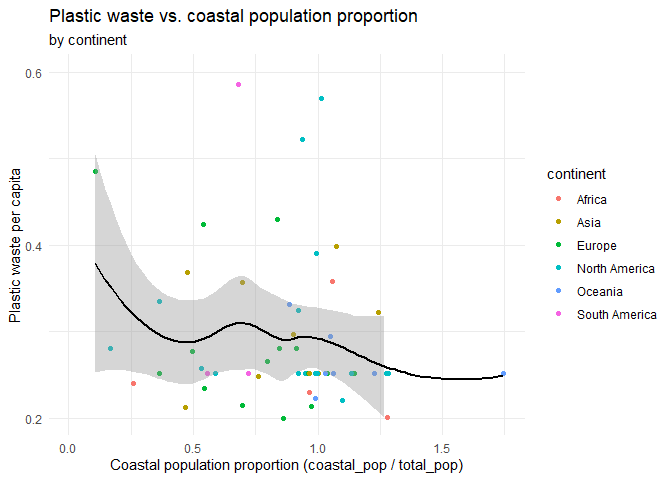
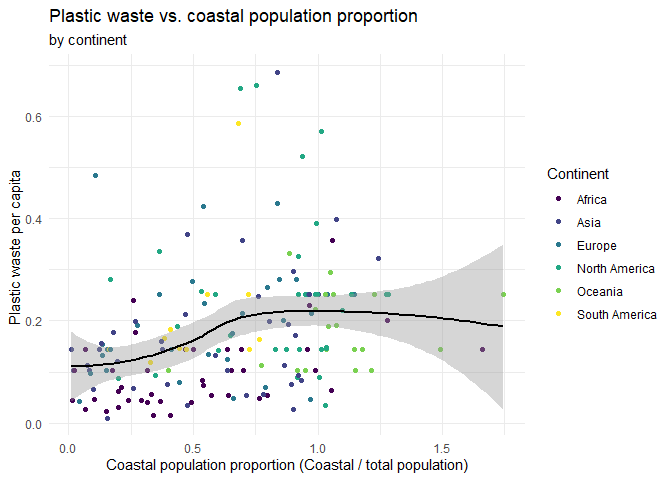
Lab 2 done!

diff --git a/lab-02.md b/lab-02.md
@@ -176,36 +176,35 @@ Remove this text, and add your answer for Exercise 5 here.
 ``` r
 # insert code here
 
-ggplot(plastic_waste, 
-       aes(x = coastal_pop / total_pop,
-           y = plastic_waste_per_cap,
-           color = continent)) +
+plastic_waste %>%
+  mutate(coastal_pop_prop = coastal_pop / total_pop) %>%
+  filter(plastic_waste_per_cap < 3) %>%
+  ggplot(aes(
+    x = coastal_pop_prop,
+    y = plastic_waste_per_cap,
+    color = continent
+  )) +
   geom_point() +
-  geom_smooth(aes(group = 1), 
-              method = "loess", 
-              color = "black", 
-              se = TRUE) +
+  geom_smooth(color = "black") +
+  scale_color_viridis_d() +
   labs(
+    x = "Coastal population proportion (Coastal / total population)",
+    y = "Plastic waste per capita ",
+    color = "Continent",
     title = "Plastic waste vs. coastal population proportion",
-    subtitle = "by continent",
-    x = "Coastal population proportion (coastal_pop / total_pop)",
-    y = "Plastic waste per capita"
-  ) +
-  scale_y_continuous(
-    limits = c(0.2, 0.6),
-    breaks = seq(0.2, 0.6, 0.2)
+    subtitle = "by continent"
   ) +
   theme_minimal()
 ```
 
-    ## `geom_smooth()` using formula = 'y ~ x'
+    ## `geom_smooth()` using method = 'loess' and formula = 'y ~ x'
 
-    ## Warning: Removed 181 rows containing non-finite outside the scale range
+    ## Warning: Removed 10 rows containing non-finite outside the scale range
     ## (`stat_smooth()`).
 
-    ## Warning: Removed 181 rows containing missing values or values outside the scale range
+    ## Warning: Removed 10 rows containing missing values or values outside the scale range
     ## (`geom_point()`).
 
 ![](lab-02_files/figure-gfm/recreate-viz-1.png)<!-- -->
 
-This is the closest I could get it…
+Done!
